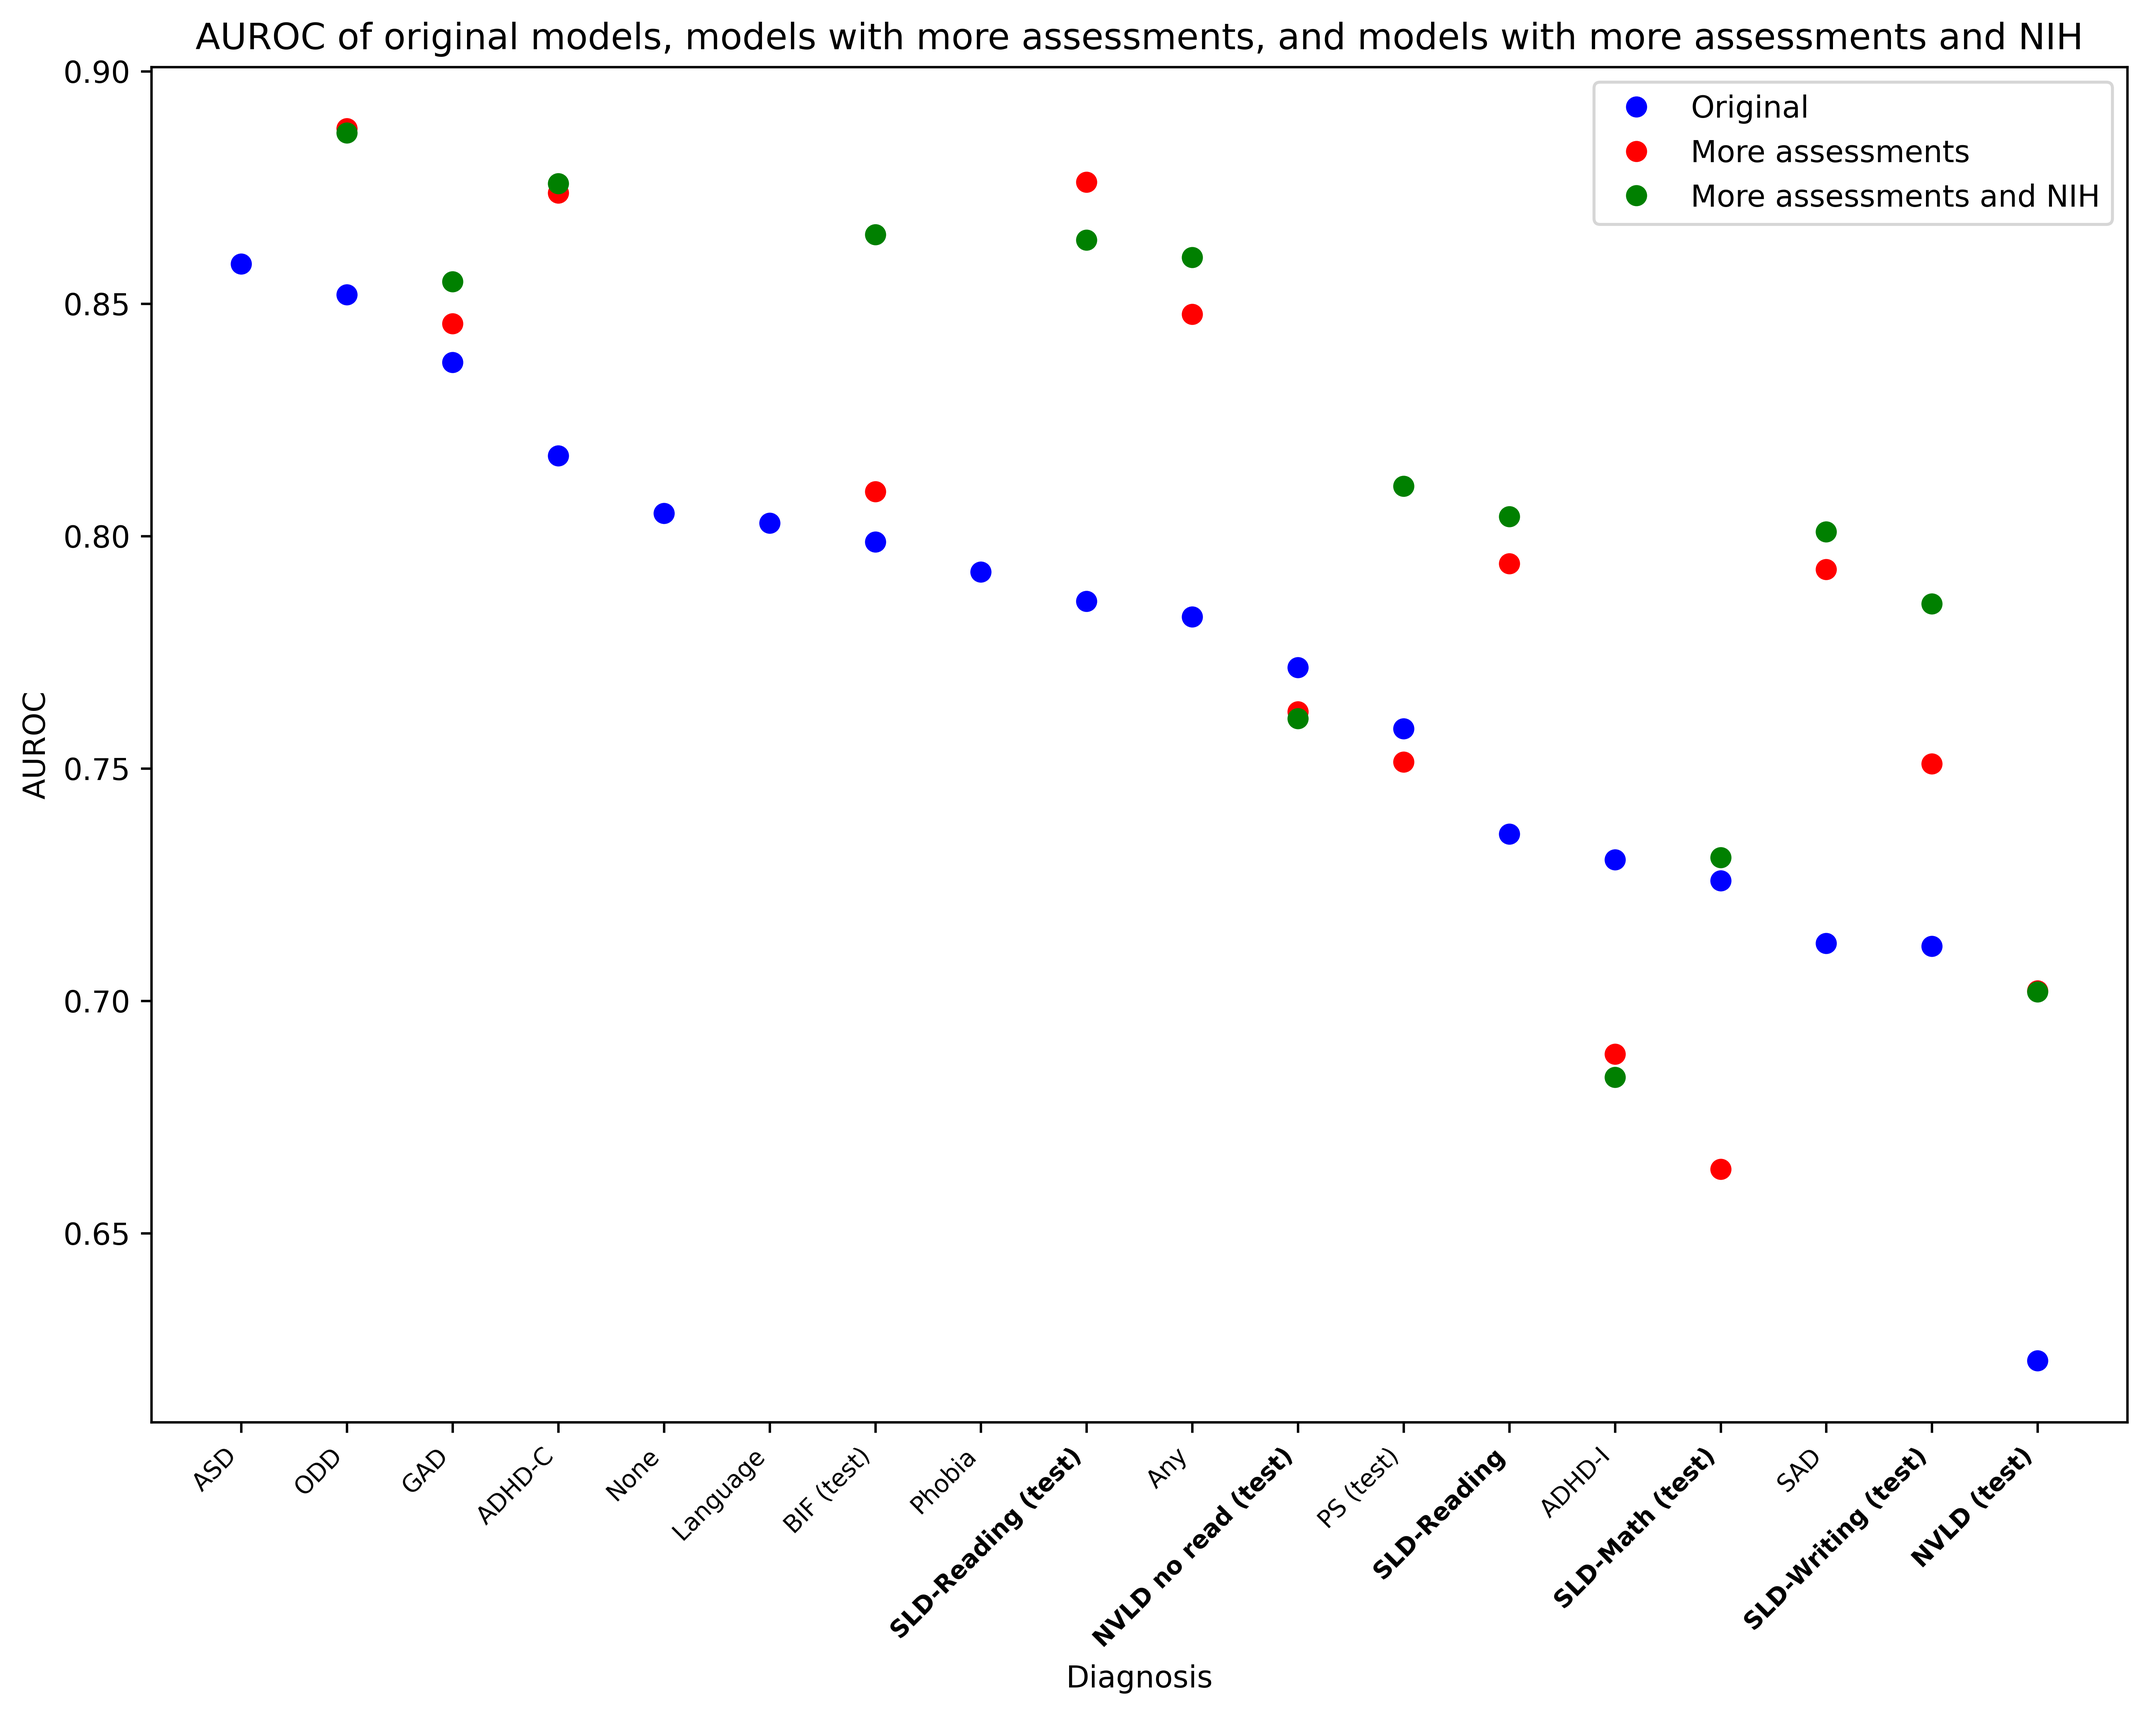
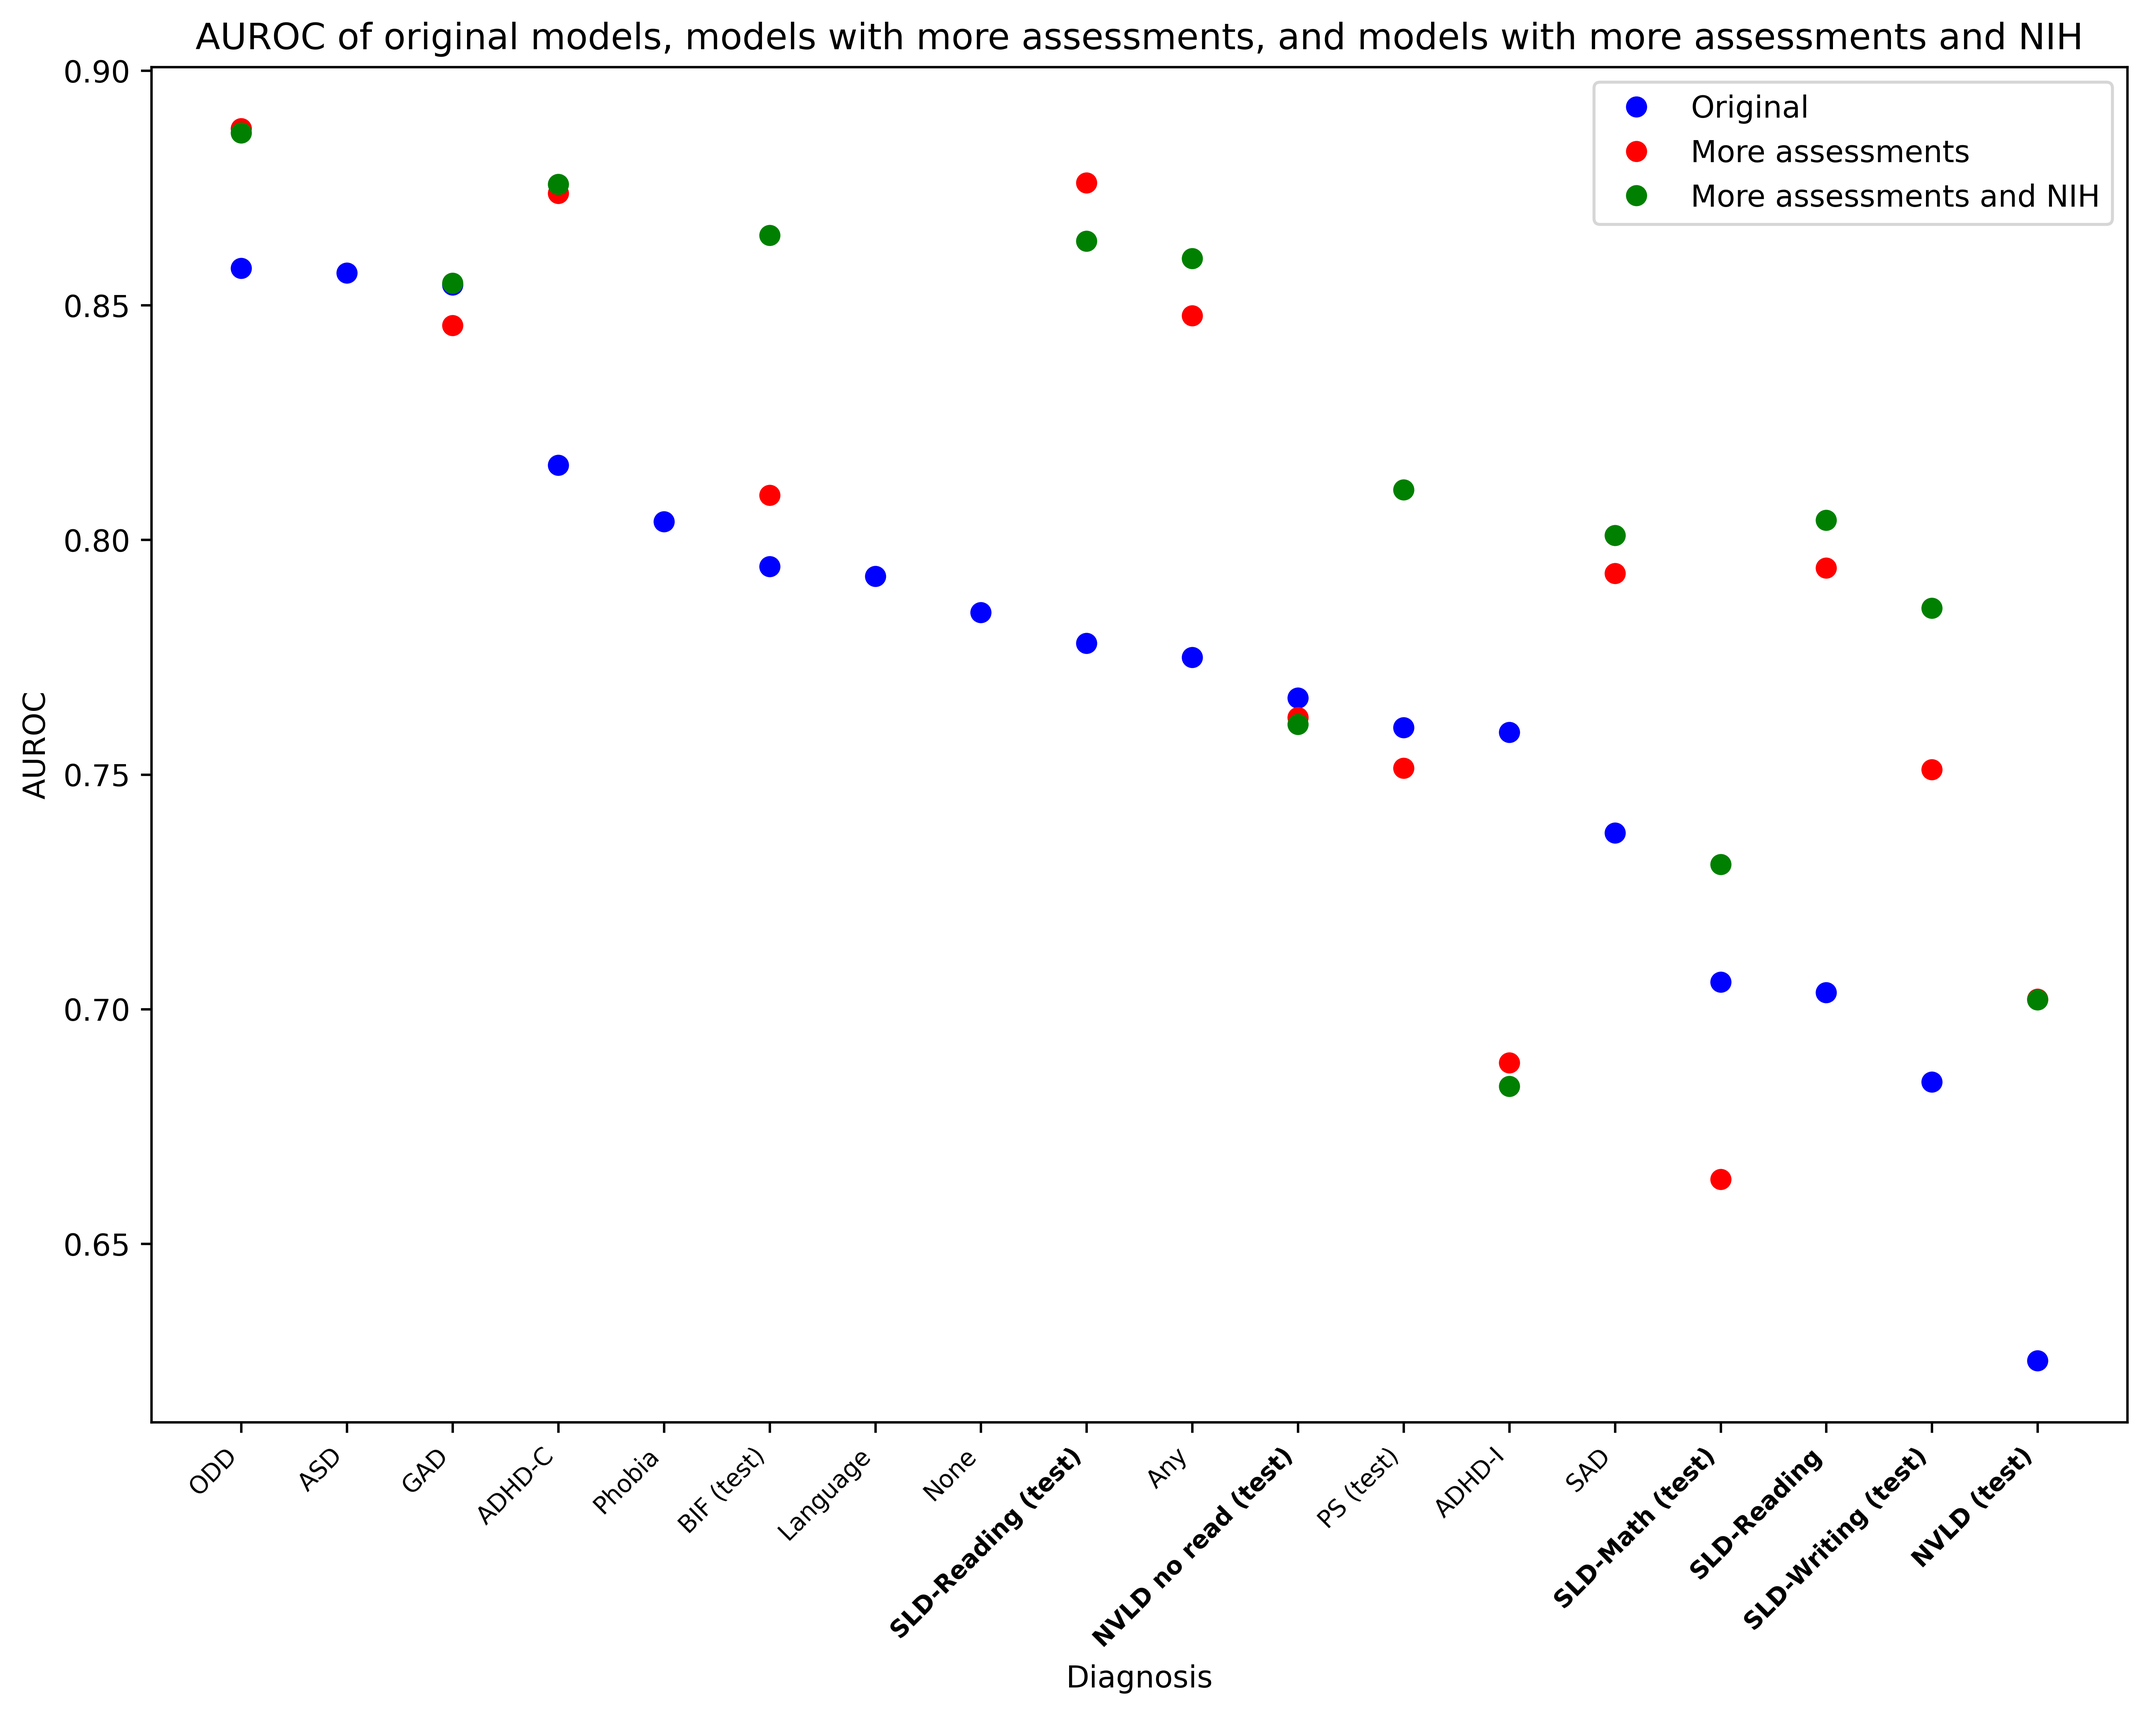
plot learning imporvements as bars

diff --git a/make_plots.py b/make_plots.py
@@ -303,6 +303,7 @@ def plot_sum_scores_vs_subscales(sum_scores_df, sum_scores_free_df = None):
         plt.savefig("output/viz/sum_scores.png", bbox_inches="tight", dpi=600)
 
 def plot_learning_improvements(learning_improvement_df):
+
     # Plot AUC from "original", "more assessments", "NIH"
     df = learning_improvement_df
     plt.figure(figsize=(10, 8))
@@ -324,6 +325,20 @@ def plot_learning_improvements(learning_improvement_df):
     plt.tight_layout()
 
     plt.savefig("output/viz/learning_improvements.png", bbox_inches="tight", dpi=600)
+
+def plot_learning_improvements_bars(learning_improvement_df):
+
+    plot_manual_vs_ml_bars(
+        df=learning_improvement_df, 
+        diags=learning_improvement_df.index, 
+        filename="learning_improvements_bars", 
+        title="AUROC of original models, models with more assessments, and models with more assessments and NIH",
+        col_dict={
+            "original": "Original",
+            "more assessments": "More assessments",
+            "NIH": "More assessments and NIH"
+        }
+    )
 
 def make_averages_for_assessment_subsets(
         df_ml,
@@ -617,11 +632,12 @@ def main():
 
     #plot_group_bar_plots_for_subsets(compare_orig_subsets_df, sum_scores_df)
 
-    #plot_learning_improvements(learning_improvement_df)
+    plot_learning_improvements(learning_improvement_df)
+    plot_learning_improvements_bars(learning_improvement_df)
 
-    opt_n_features_per_diag = get_opt_n_features_per_diag(compare_orig_subsets_df)
-    plot_saturation_plots(saturation_dfs, opt_n_features_per_diag)
-    plot_average_saturation_plot(saturation_dfs, opt_n_features_per_diag)
+    #opt_n_features_per_diag = get_opt_n_features_per_diag(compare_orig_subsets_df)
+    #plot_saturation_plots(saturation_dfs, opt_n_features_per_diag)
+    #plot_average_saturation_plot(saturation_dfs, opt_n_features_per_diag)
 
 if __name__ == "__main__":
     main()
